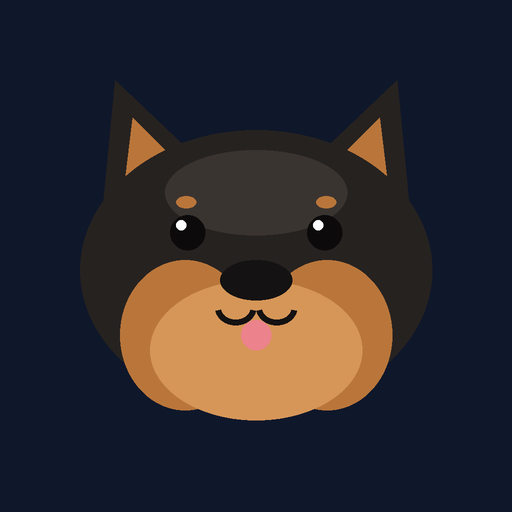
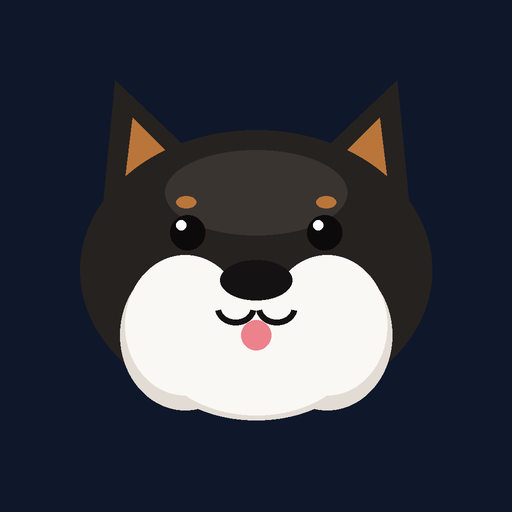
入口頁：黑柴嘴邊改為白色，圖示版本更新
Claude-Session: https://claude.ai/code/session_018WoQN4UTXGKGS2TM6guR2t

Changed region(s): [[0.2188, 0.5, 0.7812, 0.8438]]

diff --git a/index.html b/index.html
@@ -15,10 +15,10 @@
   
   <!-- CSS Stylesheet (Cache Busted v1.0.39) -->
   <link rel="stylesheet" href="style.css?v=1.0.40">
-  <link rel="manifest" href="manifest.json?v=4">
+  <link rel="manifest" href="manifest.json?v=5">
   <meta name="theme-color" content="#0f172a">
-  <link rel="icon" href="icons/icon-192.png?v=4">
-  <link rel="apple-touch-icon" href="icons/icon-192.png?v=4">
+  <link rel="icon" href="icons/icon-192.png?v=5">
+  <link rel="apple-touch-icon" href="icons/icon-192.png?v=5">
 </head>
 <body class="theme-dark">
 
@@ -61,7 +61,7 @@
   <aside class="drawer" id="navDrawer" aria-hidden="true">
     <div class="drawer-header">
       <div class="drawer-branding">
-        <img class="branding-logo branding-img" src="icons/icon-192.png?v=4" alt="">
+        <img class="branding-logo branding-img" src="icons/icon-192.png?v=5" alt="">
         <span class="branding-text">Simon's Hub</span>
       </div>
       <button class="icon-btn close-btn" id="drawerCloseBtn" aria-label="關閉選單">
